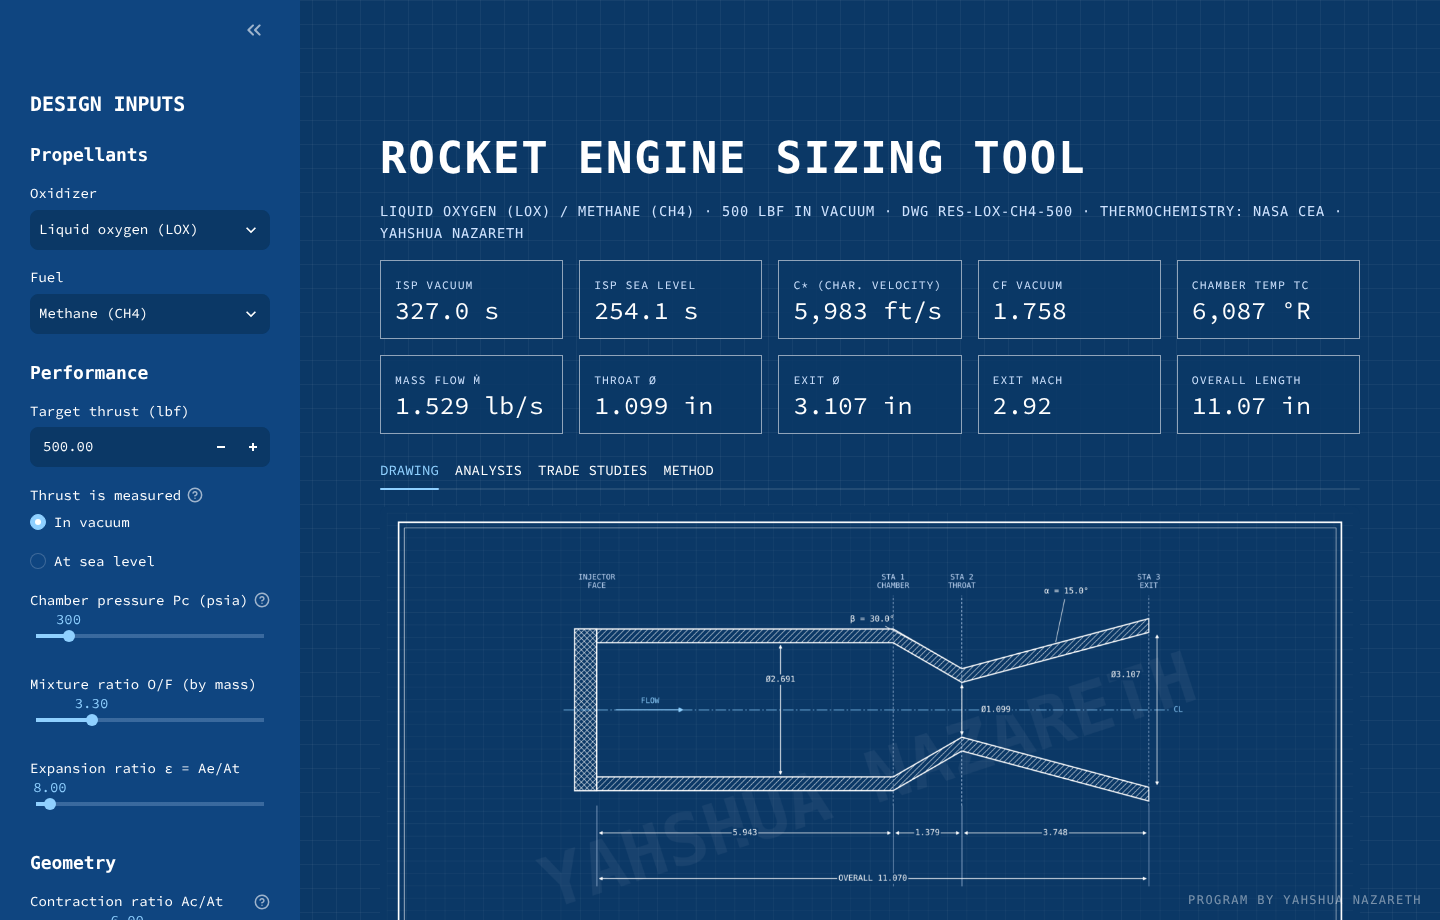
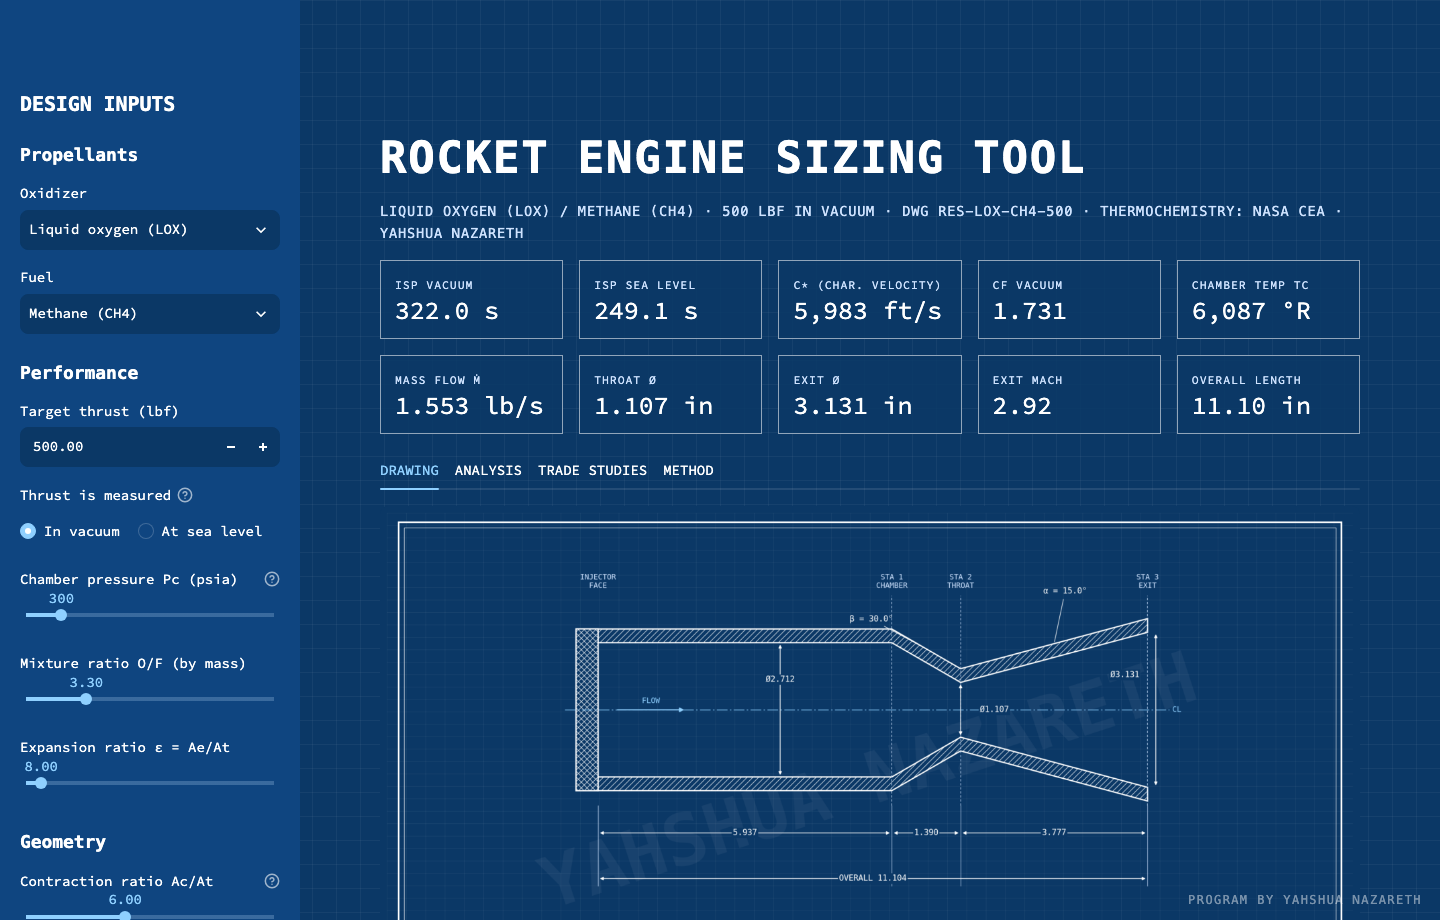
Update README numbers to match the corrected sizing
The baseline results, drawing and app screenshot predated the conical
nozzle divergence-loss correction. Vacuum Isp is now 322.0 s (from 327.0),
throat 1.107 in (from 1.099), mass flow 1.553 lb/s (from 1.529).

Also describe the divergence-loss step in the method, and call the thrust
coefficient a consistency identity rather than an independent check.

diff --git a/README.md b/README.md
@@ -45,18 +45,22 @@ State University.
 
 | Result | Value |
 |---|---|
-| Vacuum Isp | 327.0 s |
-| Sea-level Isp | 254.1 s |
-| Mass flow rate | 1.529 lb/s |
-| Throat diameter | 1.099 in |
-| Exit diameter | 3.107 in |
+| Vacuum Isp | 322.0 s |
+| Sea-level Isp | 249.1 s |
+| Mass flow rate | 1.553 lb/s |
+| Throat diameter | 1.107 in |
+| Exit diameter | 3.131 in |
 | Exit Mach number | 2.92 |
-| Overall length | 11.07 in |
+| Overall length | 11.10 in |
 
 ## Method
 
 1. **Thermochemistry.** NASA CEA solves for the equilibrium combustion
    products and returns Isp, c\* and the gas properties at each station.
+   CEA assumes the exhaust leaves perfectly straight back; in a conical nozzle
+   it spreads over the wall angle α, so the divergence loss is removed:
+   `λ = (1 + cos α) / 2`, `Isp = Isp_CEA − (1 − λ) · v_exit / g0`.
+   At the baseline this lowers vacuum Isp from 327.0 s to 322.0 s.
 2. **Mass flow.** Specific impulse is thrust per unit propellant flow, so
    `mdot = F / Isp`. The mixture ratio splits it into fuel and oxidizer:
    `mdot_fuel = mdot / (1 + O/F)`.
@@ -65,8 +69,9 @@ State University.
 4. **Lengths.** The converging and diverging walls are straight cones, so
    `L = (R2 - R1) / tan(angle)`. Chamber volume comes from the characteristic
    length: `Vc = L* * At`.
-5. **Check.** The thrust coefficient `Cf = F / (Pc * At)` gives an independent
-   check on the nozzle against CEA's value.
+5. **Thrust coefficient.** `Cf = F / (Pc * At)` scores the nozzle on its own.
+   Because the throat is sized from c\*, this is a consistency identity
+   (`Isp = c* · Cf / g0`), not an independent check.
 
 ## Running it (macOS)
 
@@ -99,10 +104,11 @@ folder. The program runs entirely on the local computer.
 
 ## Limitations
 
-This is an ideal, first-pass sizing. It assumes equilibrium chemistry with no
-friction, heat loss or incomplete combustion, and a sharp-cornered conical
-nozzle. It does not cover cooling, wall thickness, injector design or
-structures. Real engines typically achieve 90–97% of the calculated Isp.
+This is a first-pass sizing. It assumes equilibrium chemistry, and apart from
+the conical nozzle's divergence loss it includes no losses (friction, heat
+transfer, incomplete combustion). The nozzle is a sharp-cornered cone. It does
+not cover cooling, wall thickness, injector design or structures. Real engines
+typically achieve 90–97% of the ideal CEA Isp.
 
 ## Development
 
